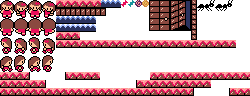
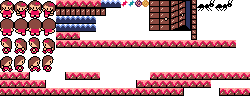
add doce 1

diff --git a/CandyMaze.py b/CandyMaze.py
@@ -60,9 +60,9 @@ class Plataforma:
         self.direita = True
     def update(self):
         if self.x == 87:
-            self.direita = True
+            self.direita = True  #quando x for 87 (o inicial) ela se moverá para a direita
         if self.x == 153:
-            self.direita = False
+            self.direita = False  #quando x chegar a 153 o movimento inverte para a esquerda
         if self.direita == True:
             self.x += 0.5
             self.direita = True
@@ -71,6 +71,7 @@ class Plataforma:
             self.direita = False
     def draw(self):
         pyxel.blt(self.x, 42, 1, 56, 32, 24, 8,7)
+
 
 #----------------- FASE 1 ----------------------------------------------------------------------------------------#
 
@@ -88,7 +89,7 @@ class Fase1:
         self.colisao = False
         self.win = False
         self.win_counter = 0  # Contador de frames na porta final
-        self.x_lago1 = 214
+        self.x_lago1 = 204
         self.y_lago1 = 212
         self.largura_lago1 = 20   #posicão inicial e tamanho do primeiro lago
         self.altura_lago1 = 8
@@ -184,11 +185,11 @@ class Fase1:
             self.win = False
     #-------------LAGO 1--------------
         self.x_lago1 += 0.5 #movimento do lago para a direita, e corte na largura de acordo com o movimento
-        if self.largura_lago1 > 0 and self.x_lago1 < 234:
+        if self.largura_lago1 > 0 and self.x_lago1 < 224:
             self.largura_lago1 -= 0.5
         else:                #quando chega no limite imposto ele volta para a posicão inicial para reiniciar o movimento
             self.largura_lago1 = 20
-            self.x_lago1 = 214
+            self.x_lago1 = 204
     
     #----------LAGO2--------------
         self.x_lago2 += 0.5 #movimento do lago para a direita, e corte na largura de acordo com o movimento
@@ -235,15 +236,16 @@ class Fase1:
         pyxel.blt(self.x_lago2 - 80, self.y_lago2, 1, 56, 16, 40, self.altura_lago2,7) 
         pyxel.blt(self.x_lago2 - 95, self.y_lago2, 1, 56, 16, 15, self.altura_lago2,7)   
         #-----LAGO3--------
-        pyxel.blt(self.x_lago3, self.y_lago3, 1, 56, 24, self.largura_lago3, self.altura_lago3,7) #primeira imagem do looping do lago
-        pyxel.blt(self.x_lago3 - 20, self.y_lago3, 1, 56, 24, 20, self.altura_lago3,7)  #segunda imagem do looping do lago
+        pyxel.blt(self.x_lago3, self.y_lago3, 1, 56, 24, self.largura_lago3, self.altura_lago3,7) 
+        pyxel.blt(self.x_lago3 - 20, self.y_lago3, 1, 56, 24, 20, self.altura_lago3,7)  
         pyxel.blt(self.x_lago3 - 40, self.y_lago3, 1, 56, 24, 20, self.altura_lago3,7) 
         self.personagem.desenhapersonagem()
         pyxel.text(5+0.5, 5+0.5, "FASE 1", self.colortext)
         pyxel.text(5, 5, "FASE 1", 0)
         pyxel.blt(0, 212, 1, 0, 88, 250, 8,7) # chão
-        pyxel.blt(self.plataforma.x,42,1,56,32,24,8)
+        pyxel.blt(self.plataforma.x,42,1,56,32,24,8) #plataforma móvel
         self.paredes()
+        pyxel.blt(145, 199, 1, 121, 0, 7, 7,7)
         if self.win:
             Win().desenhawin()
             return
